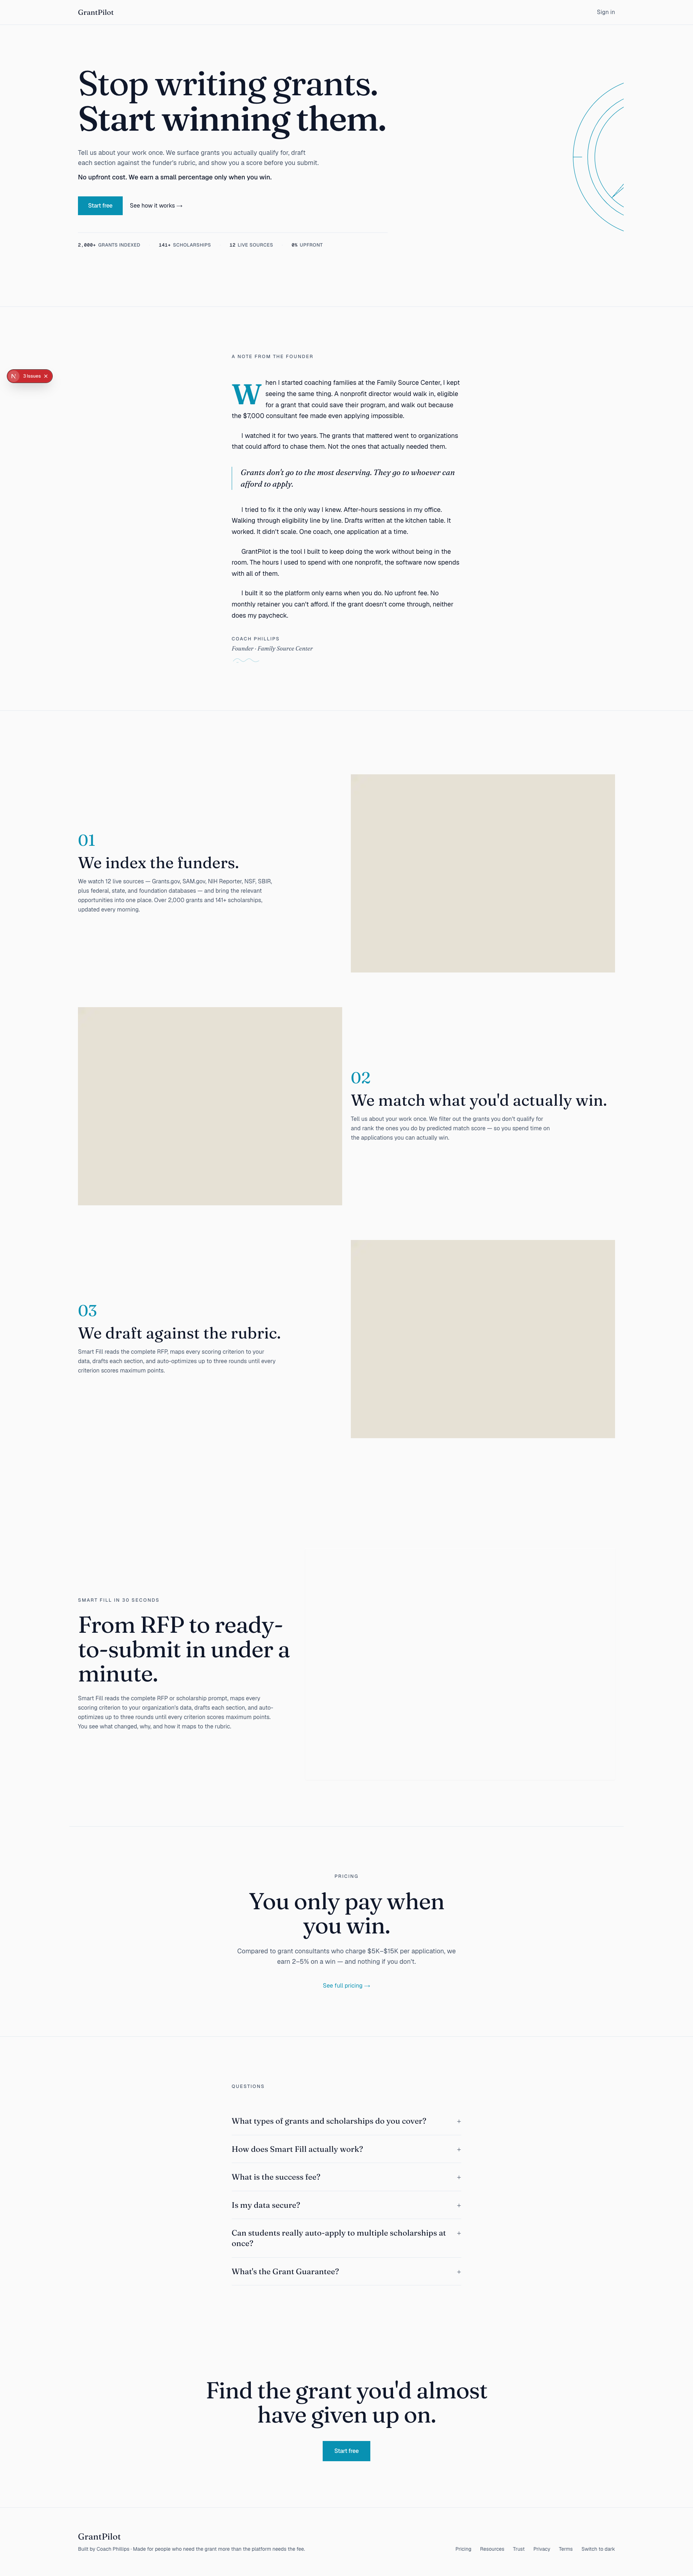
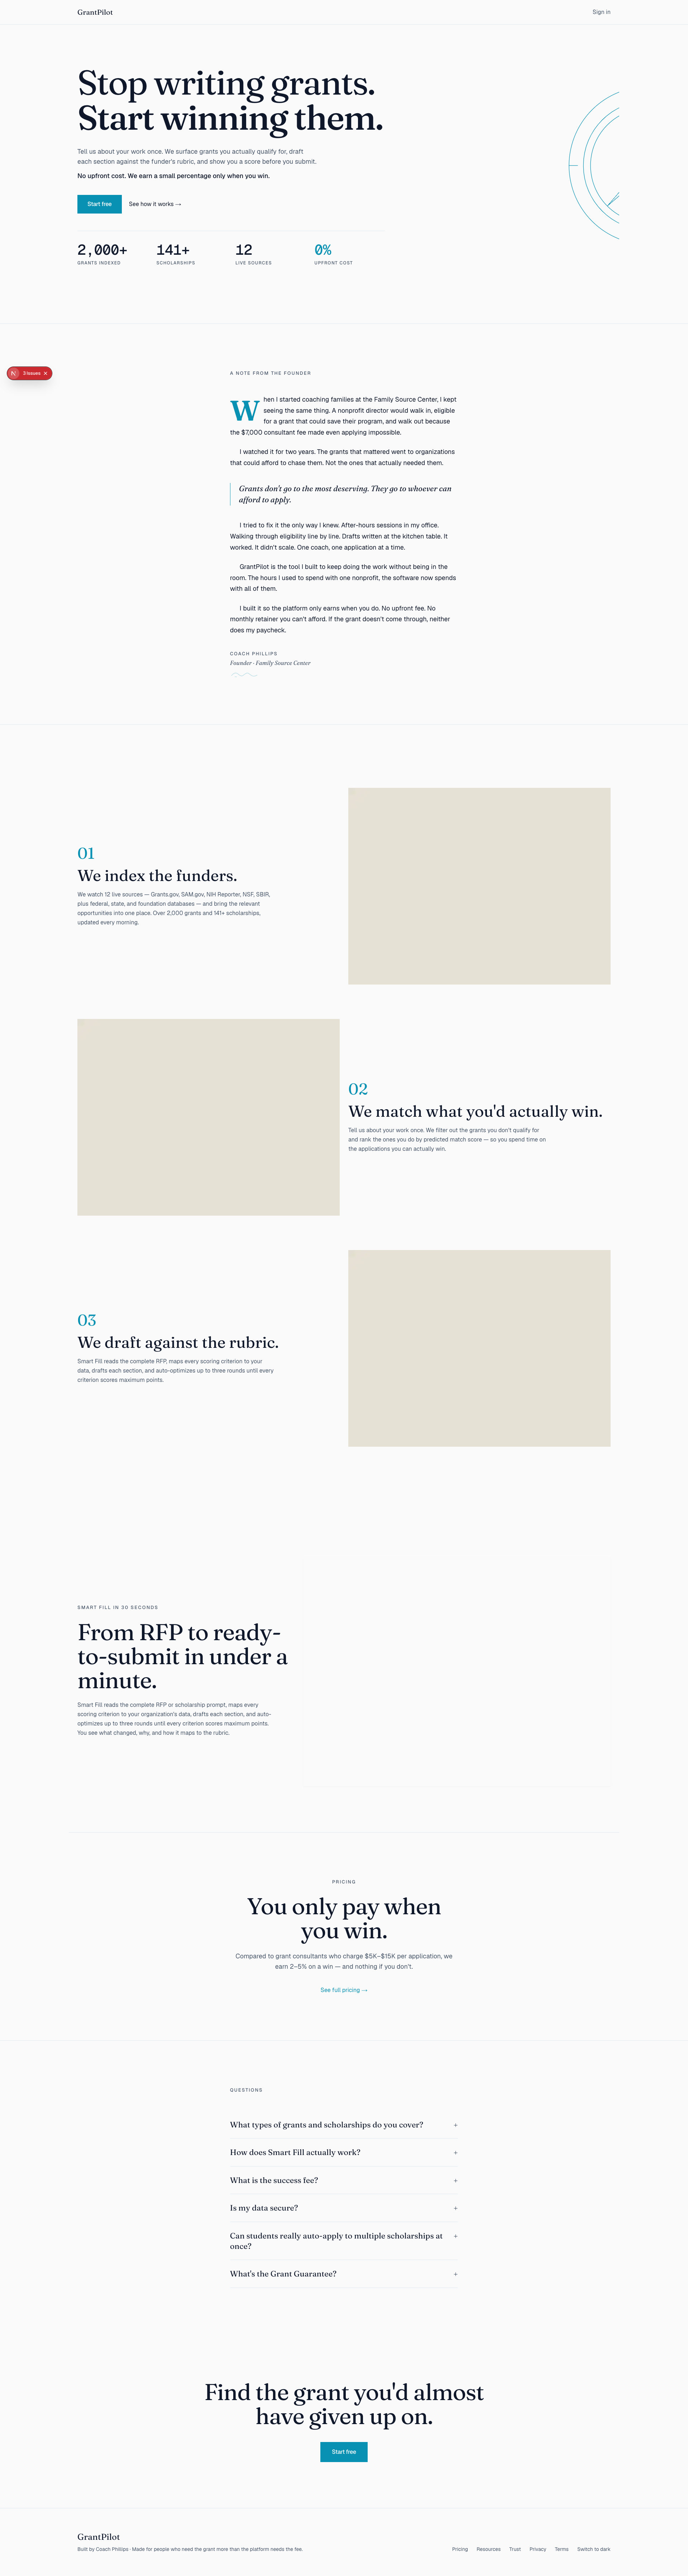
ui(landing): stat strip → 4-column display grid
Old: inline 13px text strip below CTAs, dot-separated, all stats at
the same small scale. Read as a footnote, not as proof.

New: 4-column <dl> grid with mono-numerals at clamp(28px, 4vw, 40px)
and uppercase tracked labels below. "0%" highlighted in --accent
since "0% upfront" is the strongest pitch on the strip. Stacks 2x2
on mobile, 1x4 on sm+. Hairline rule above unchanged.

Visual regression baselines regenerated.

diff --git a/src/components/landing/EditorialHero.tsx b/src/components/landing/EditorialHero.tsx
@@ -34,28 +34,41 @@ export function EditorialHero({
               See how it works →
             </EditorialCTA>
           </div>
-          <div className="pt-6 border-t border-rule">
-            <ul className="flex flex-wrap items-baseline gap-x-6 gap-y-2 text-[13px] font-medium tracking-[0.04em] uppercase text-ink-2">
-              <li>
-                <span className="font-mono text-ink mr-1.5">2,000+</span>
-                grants indexed
-              </li>
-              <li aria-hidden="true" className="text-rule">·</li>
-              <li>
-                <span className="font-mono text-ink mr-1.5">141+</span>
-                scholarships
-              </li>
-              <li aria-hidden="true" className="text-rule">·</li>
-              <li>
-                <span className="font-mono text-ink mr-1.5">12</span>
-                live sources
-              </li>
-              <li aria-hidden="true" className="text-rule">·</li>
-              <li>
-                <span className="font-mono text-ink mr-1.5">0%</span>
-                upfront
-              </li>
-            </ul>
+          <div className="pt-8 border-t border-rule">
+            <dl className="grid grid-cols-2 sm:grid-cols-4 gap-x-6 gap-y-6">
+              <div>
+                <dt className="font-mono font-medium text-ink text-[clamp(28px,4vw,40px)] leading-none tracking-[-0.02em]">
+                  2,000+
+                </dt>
+                <dd className="mt-2 text-[12px] font-medium tracking-[0.12em] uppercase text-ink-2">
+                  Grants indexed
+                </dd>
+              </div>
+              <div>
+                <dt className="font-mono font-medium text-ink text-[clamp(28px,4vw,40px)] leading-none tracking-[-0.02em]">
+                  141+
+                </dt>
+                <dd className="mt-2 text-[12px] font-medium tracking-[0.12em] uppercase text-ink-2">
+                  Scholarships
+                </dd>
+              </div>
+              <div>
+                <dt className="font-mono font-medium text-ink text-[clamp(28px,4vw,40px)] leading-none tracking-[-0.02em]">
+                  12
+                </dt>
+                <dd className="mt-2 text-[12px] font-medium tracking-[0.12em] uppercase text-ink-2">
+                  Live sources
+                </dd>
+              </div>
+              <div>
+                <dt className="font-mono font-medium text-accent text-[clamp(28px,4vw,40px)] leading-none tracking-[-0.02em]">
+                  0%
+                </dt>
+                <dd className="mt-2 text-[12px] font-medium tracking-[0.12em] uppercase text-ink-2">
+                  Upfront cost
+                </dd>
+              </div>
+            </dl>
           </div>
         </div>
         <div className="col-span-12 md:col-span-5 lg:col-span-5 hero-bleed flex justify-center md:justify-end order-first md:order-last">